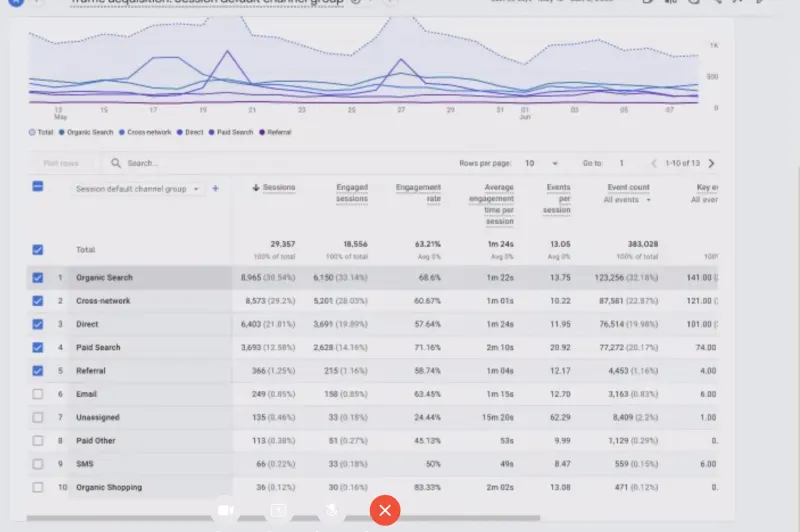
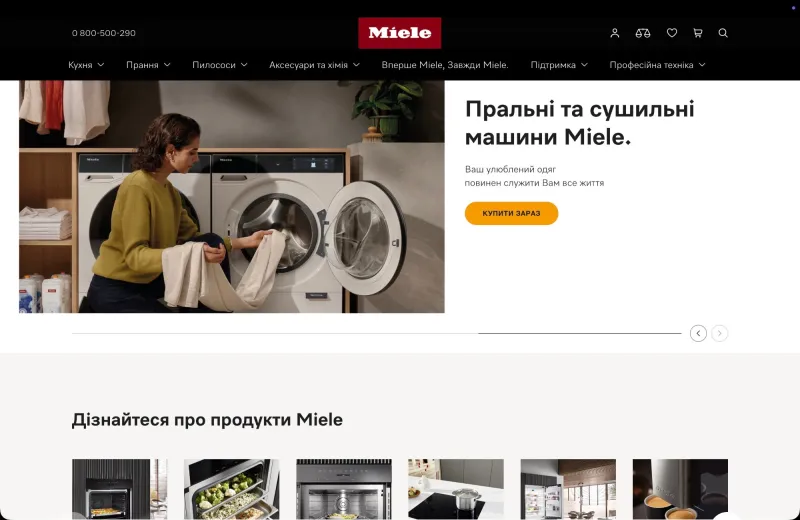
Miele cover

diff --git a/index.html b/index.html
@@ -149,7 +149,7 @@
           </a>
 
           <a class="case" href="cases/miele-audit/">
-            <div class="case__thumb"><img src="assets/cases/miele-audit/cover.webp" srcset="assets/cases/miele-audit/cover-800.webp 800w, assets/cases/miele-audit/cover.webp 1600w" sizes="(min-width: 1000px) 640px, 100vw" width="1600" height="1064" alt="" loading="lazy" decoding="async"></div>
+            <div class="case__thumb case__thumb--art"><img src="assets/cases/miele-audit/cover.webp" srcset="assets/cases/miele-audit/cover-800.webp 800w, assets/cases/miele-audit/cover.webp 1600w" sizes="(min-width: 1000px) 640px, 100vw" width="1600" height="1040" alt="" loading="lazy" decoding="async" style="object-position: center top"></div>
             <div class="case__meta"><span data-i18n="t.c690efe2">2024 · Freelance</span><span data-i18n="t.48db8c14">UX audit</span></div>
             <h3 class="case__title" data-i18n="t.7ba4d620">Miele Ukraine — UX/UI audit of shop.miele.ua</h3>
             <p class="case__sub" data-i18n="t.25ea361f">

diff --git a/cases/miele-audit/index.html b/cases/miele-audit/index.html
@@ -51,7 +51,7 @@
     <section class="case-cover">
       <div class="wrap">
         <div class="case-cover__inner">
-          <img src="../../assets/cases/miele-audit/cover.webp" srcset="../../assets/cases/miele-audit/cover-800.webp 800w, ../../assets/cases/miele-audit/cover.webp 1600w" sizes="(min-width: 1280px) 1200px, 100vw" width="1600" height="1064" alt="Miele Ukraine shop.miele.ua audit" fetchpriority="high" decoding="async">
+          <img src="../../assets/cases/miele-audit/cover.webp" srcset="../../assets/cases/miele-audit/cover-800.webp 800w, ../../assets/cases/miele-audit/cover.webp 1600w" sizes="(min-width: 1280px) 1200px, 100vw" width="1600" height="1040" alt="shop.miele.ua home page: hero banner for Miele washing and drying machines with a Buy now button, and the product category carousel" fetchpriority="high" decoding="async">
         </div>
       </div>
     </section>
